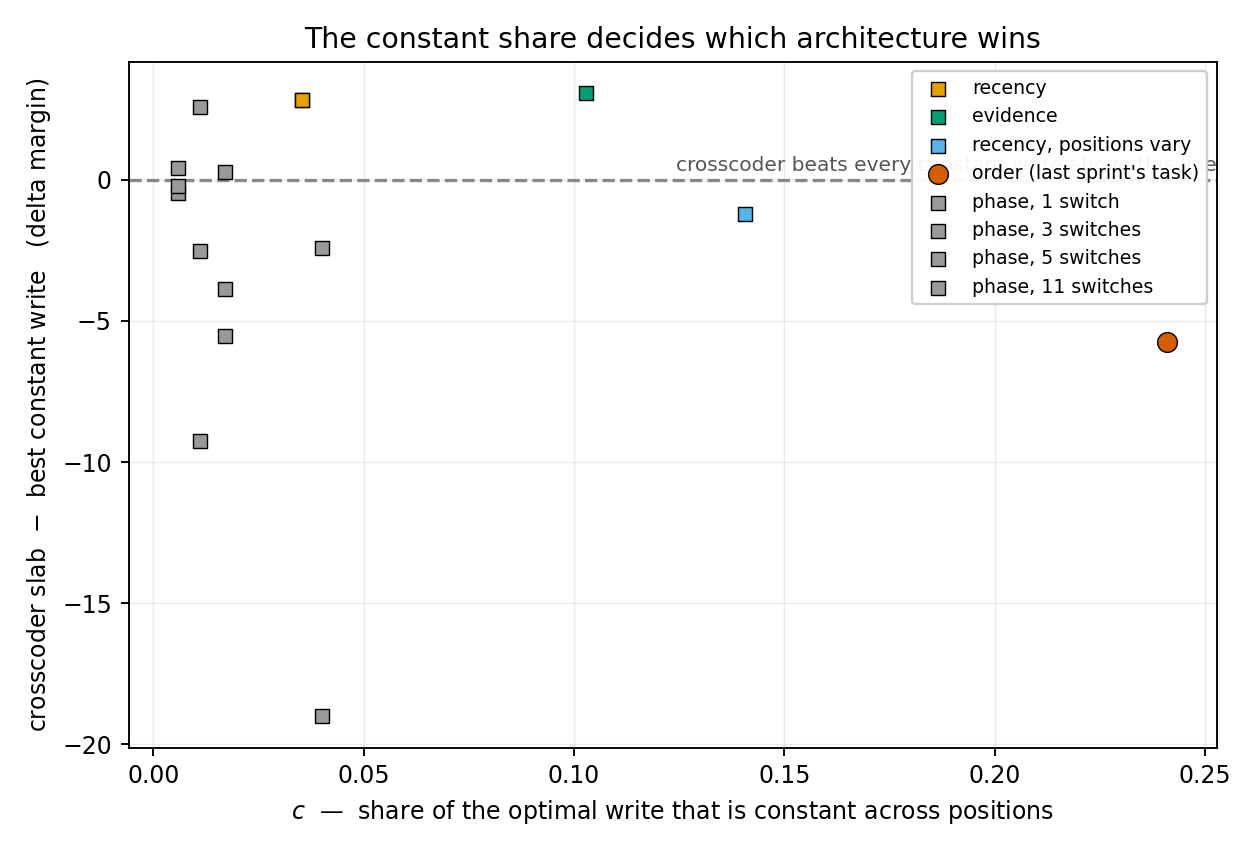
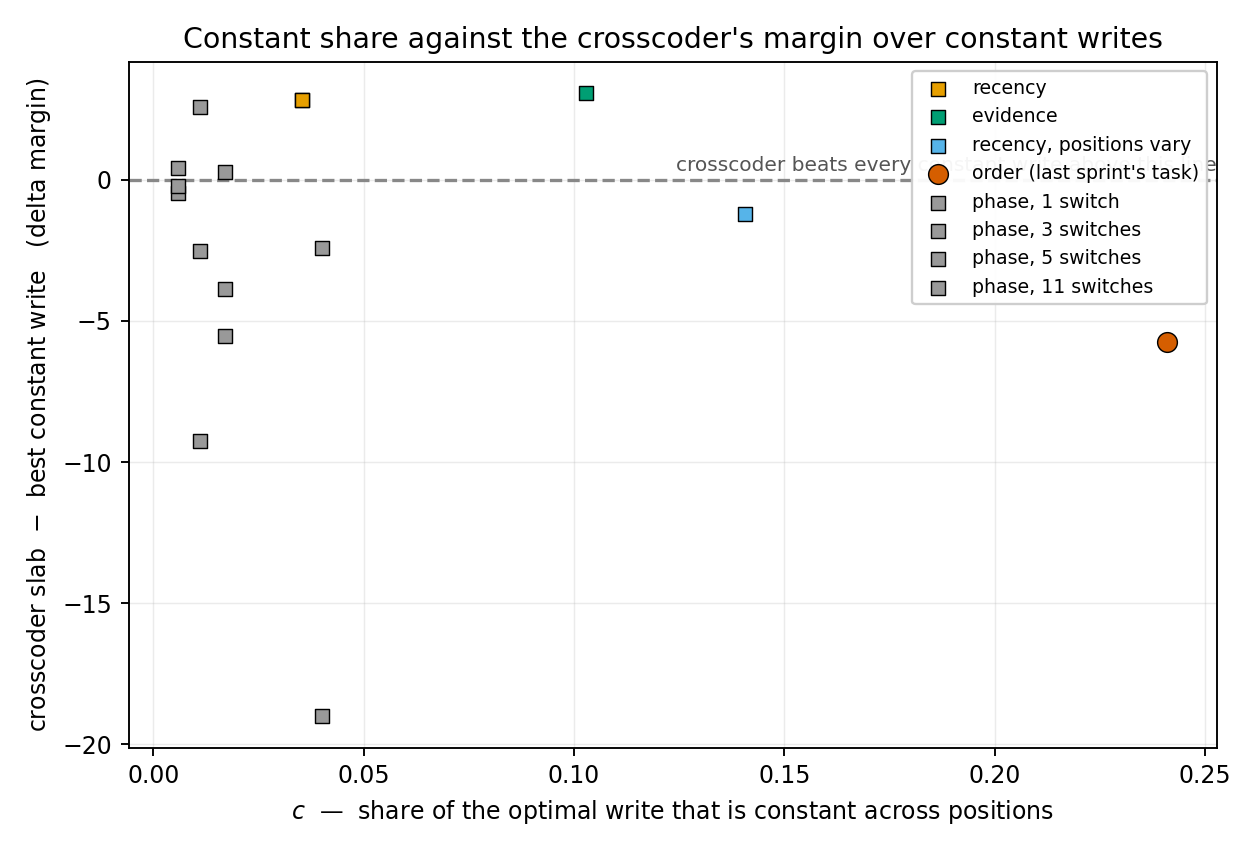
txcwins: neutral title for the c-gate figure -- the claim is not settled

Changed region(s): [[0.155, 0.0306, 0.93, 0.0612]]

diff --git a/scripts/plot_c_gate.py b/scripts/plot_c_gate.py
@@ -1,4 +1,4 @@
-"""One number, computable before any dictionary is trained, predicts which architecture wins.
+"""Does the constant share of the optimal write predict which architecture wins?
 
 CAUTION, and it is why this figure exists rather than a table. `c` must be computed from the
 GRADIENT of the metric being reported, not from the difference-of-means slab. The two are
@@ -27,9 +27,13 @@ slab flattened, and a random constant direction. Every arm is at matched injecte
 swept symmetrically about zero so no arm is locked to the wrong sign, and matched on realised
 coefficients per segment measured out of sample.
 
-The previous sprint's headline task sits at the right-hand end, which is the retrospective
-explanation of why it was reported as a crosscoder win and is not one: a quarter of its
-optimal write is constant, so a constant write always had grip on it.
+Status of the claim, stated plainly because it is not settled. On the two tasks where c comes
+from the gradient it separates them cleanly and in the predicted direction -- the previous
+sprint's order task at c = 0.241 loses to a constant write, recency at c = 0.034 wins. On the
+difference-of-means points it does not order the tasks at all: the phase ladder at c = 0.006
+to 0.040 is a null or a loss throughout, and phase-1 at c = 0.040 loses by 19 points while
+recency at c = 0.035 wins. Whether that is the wrong c or a wrong hypothesis is settled by the
+gradient runs, not by this figure.
 
 Reads every results/txc_wins/*.json that carries a rank measurement.
 """
@@ -96,7 +100,7 @@ def main() -> int:
             fontsize=8.5, color="#555555", ha="right")
     ax.set_xlabel(r"$c$  —  share of the optimal write that is constant across positions")
     ax.set_ylabel("crosscoder slab  $-$  best constant write   (delta margin)")
-    ax.set_title("The constant share decides which architecture wins")
+    ax.set_title("Constant share against the crosscoder's margin over constant writes")
     ax.grid(alpha=0.25, lw=0.6)
     ax.legend(loc="upper right", fontsize=8, framealpha=0.95)
     fig.tight_layout()
